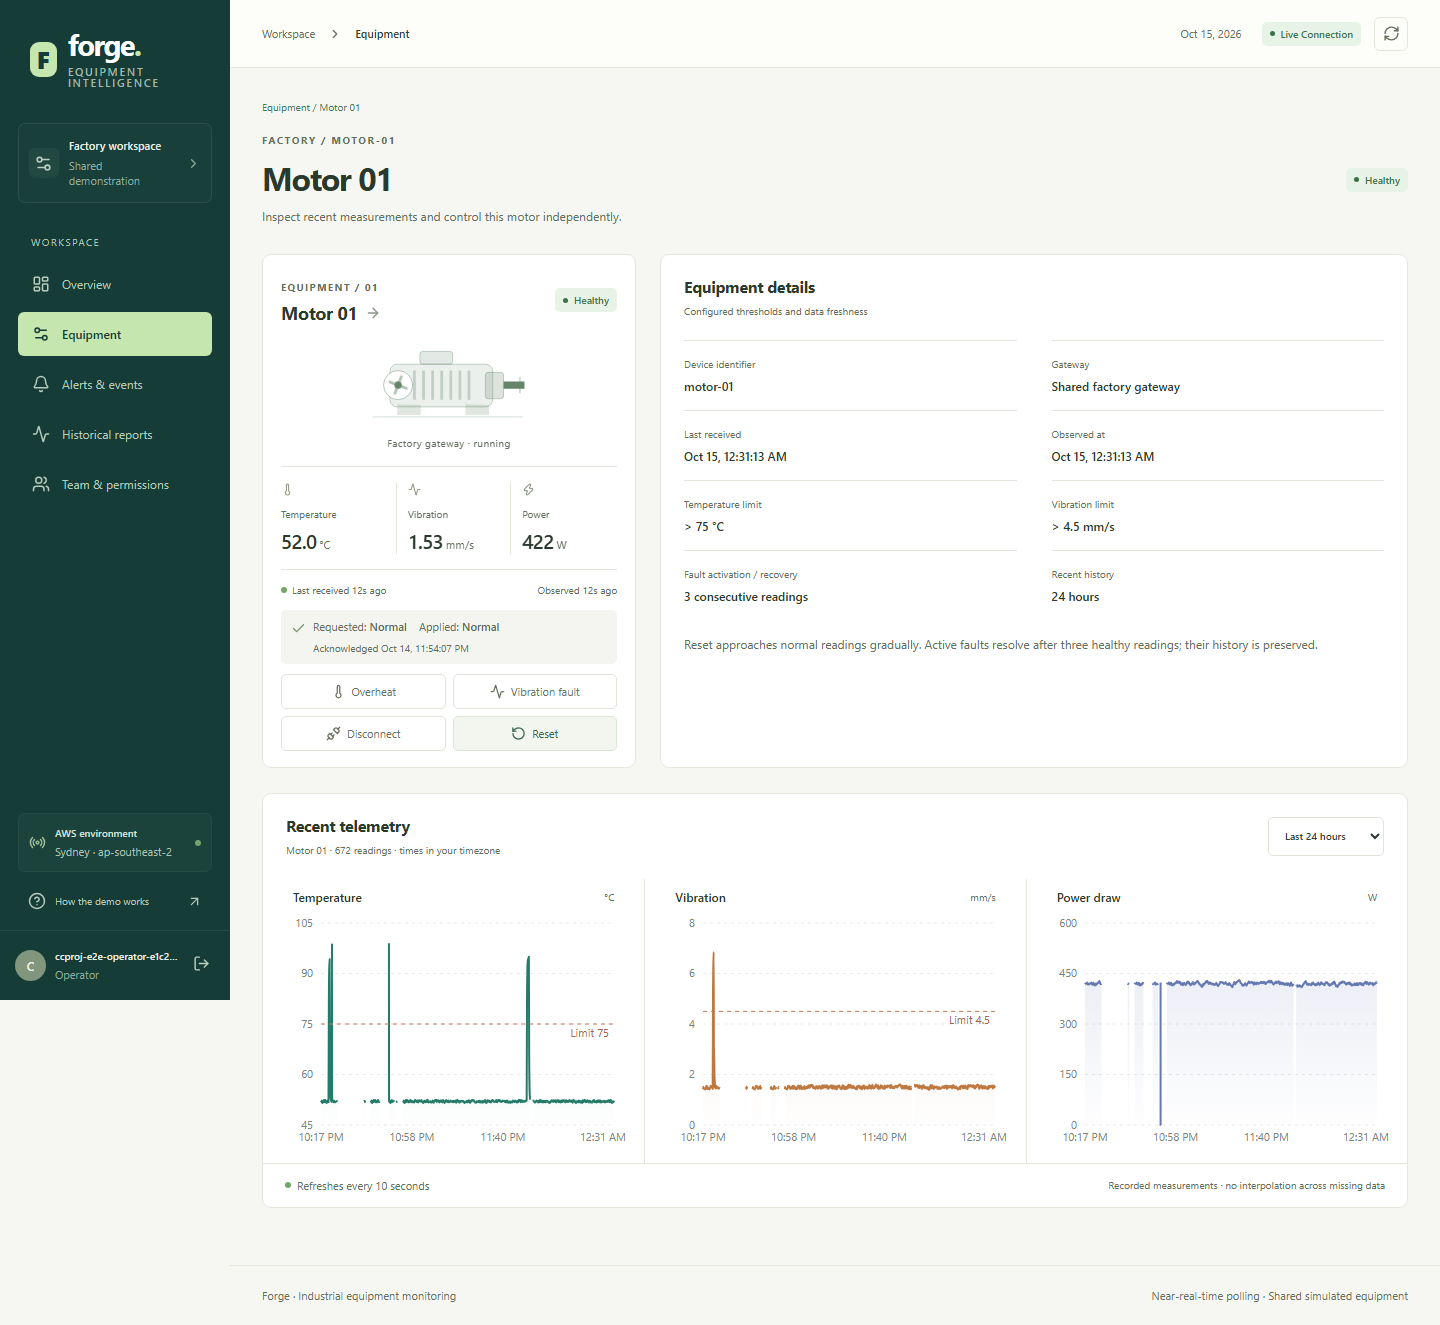
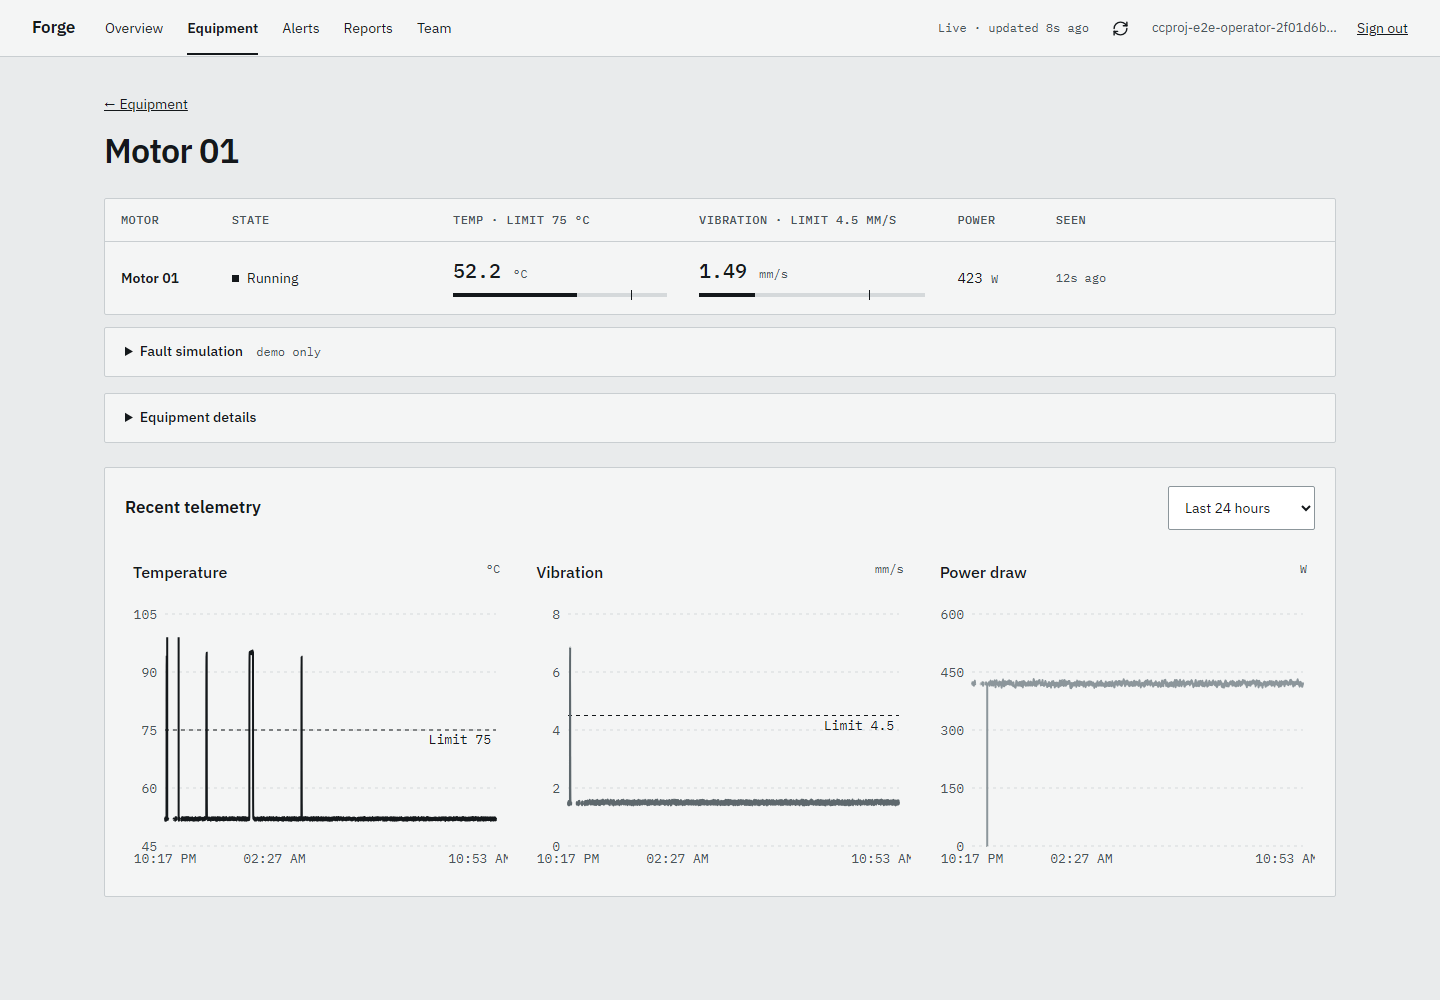
docs: verify published reference redesign with real desktop and mobile login

diff --git a/README.md b/README.md
@@ -29,7 +29,7 @@ The deployed AWS acceptance report is `docs/AWS_ACCEPTANCE.md`: 64 local tests a
 
 The main Markdown handoff is a small set: `PRD.md` for scope, `PROGRESS.md` for the completed state and next work, and `docs/AWS_ACCEPTANCE.md` for results, measurements and limitations. This README supplies build/deployment/operation commands. `docs/API.md` and `docs/SHUTDOWN.md` are the focused frontend contract and later cleanup references; `IMPLEMENTATION_PLAN.md` preserves the original phased plan with the updated implementation boundary.
 
-The React application is in `frontend/`: Cognito hosted PKCE login, motor overview/detail/charts, operator controls and acknowledgements, active/historical alerts, asynchronous reports with charts/tables/CSV, and operator user invitations/role assignment. It handles loading, API errors, expired sessions and stale readings. Viewer access is enforced by the existing backend as well as reflected in the UI. Responsive desktop/mobile layouts, keyboard focus and reduced-motion support are included.
+The React application is in `frontend/`: Cognito hosted PKCE login, motor overview/detail/charts, operator controls and acknowledgements, active/historical alerts, asynchronous reports with charts/tables/CSV, and operator user invitations/role assignment. It handles loading, API errors, expired sessions and stale readings. Viewer access is enforced by the existing backend as well as reflected in the UI. The interface follows the supplied Forge reference: top navigation, a motor table with threshold gauges, an all-motor temperature comparison, timestamped events and collapsed demo controls. Neutral grey surfaces and self-hosted IBM Plex fonts keep faults prominent. Responsive desktop/mobile layouts, keyboard focus and reduced-motion support are included.
 
 ```powershell
 Push-Location frontend
@@ -41,7 +41,7 @@ Pop-Location
 .venv\Scripts\python.exe -m scripts.publish_frontend frontend/dist
 ```
 
-Publishing uploads to private S3 and waits for CloudFront invalidation. Keep deployment-owned `config.json` out of the build; infrastructure updates preserve an existing application entry point. Public configuration contains endpoints and IDs only. Tokens exist at runtime in per-tab session storage, never in the build, Git, test evidence or command log; sign-out clears them and requests token revocation and hosted logout. The maintained `oidc-client-ts` library handles OAuth state, PKCE and token renewal. Recharts renders measurements with visible threshold lines and gaps for missing samples; after initial pagination, chart polling retrieves new samples with a short overlap rather than rescanning the complete 24-hour window.
+Publishing uploads to private S3 and waits for CloudFront invalidation. Keep deployment-owned `config.json` out of the build; infrastructure updates preserve an existing application entry point. Public configuration contains endpoints and IDs only. Tokens exist at runtime in per-tab session storage, never in the build, Git, test evidence or command log; sign-out clears them and requests token revocation and hosted logout. The maintained `oidc-client-ts` library handles OAuth state, PKCE and token renewal. Recharts renders detail/report measurements, while the overview uses a shared SVG comparison with directly labeled motor lines. Charts show threshold lines and gaps for missing samples; after initial pagination, chart polling retrieves new samples with a short overlap rather than rescanning the complete 24-hour window.
 
 ## Validation
 

diff --git a/PROGRESS.md b/PROGRESS.md
@@ -45,3 +45,9 @@ TypeScript/Vite build passed and all 23 existing controlled browser scenarios pa
 The dashboard now refreshes current device/control state one second after each completed response while any control is pending, reverting to ten seconds once acknowledged or after the sixty-second acknowledgement window. The initial post-command refresh still runs immediately. Server timestamps plus elapsed browser time bound fast polling even during subsequent refresh failures; hidden tabs continue pausing requests, and requests do not overlap. Simulator polling, telemetry intervals, fault counters and backend resources are unchanged. Applied mode remains based on actual acknowledgement.
 
 Production TypeScript/Vite build passed. All 25 controlled browser scenarios passed in 22.4 seconds, including automatic per-motor acknowledgement without manual refresh, reset-all fast-to-normal cadence, and bounded refresh failures. The initial paused-clock test advanced before a mocked response completed; synchronizing with completed loading fixed that test race. Published through the logged frontend script, waited for CloudFront invalidation, and verified SHA-256 matches for all seven public assets. `docs/ui-control-polling.json` records the scenarios and release hashes. No real fault injection, account/password mutation or infrastructure update was needed for this release. Existing open account-recovery and submission-snapshot notes remain in force.
+
+## Reference redesign - 15 October 2026
+
+Applied the user-supplied Forge overview reference across sign-in, overview, equipment/detail, alerts, reports and team. Top navigation, self-hosted IBM Plex fonts with OFL, neutral grey surfaces and small radii replace the sidebar/cards. The overview derives its status headline from actual device responses and shows one motor table with threshold gauges, a shared all-motor temperature chart with end labels, timestamped stored events and collapsed demo controls. Red-orange marks faults. Existing authentication, permissions, controls/acknowledgements, adaptive polling, recent history, reports and team management remain.
+
+All 27 controlled browser scenarios passed, including fault-driven hierarchy, all five desktop/mobile views, font loading, accessibility and functional regressions. The real deployed desktop/operator and mobile/viewer Cognito login/chart smoke passed. CloudFront invalidation completed; all eleven public files match the local build SHA-256, including the fonts. docs/ui-reference-redesign.json records the release and docs/ui-redesign-live-smoke.xml records the deployed smoke. docs/ui-redesign/ screenshots use controlled fixtures; docs/ui-overview-desktop.png, docs/ui-overview-mobile.png and docs/ui-device-desktop.png use real deployed readings. The smoke created and cleaned disposable accounts, without injecting motor faults. Prior submission documents remain their recorded snapshot; the initial-account password recovery issue has not been retested or resolved by disposable-account login.
